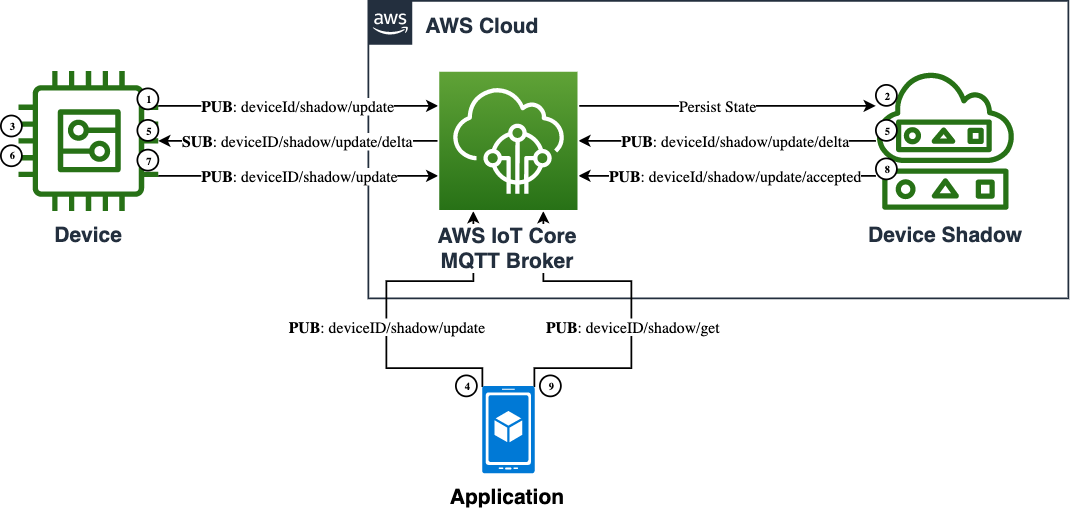
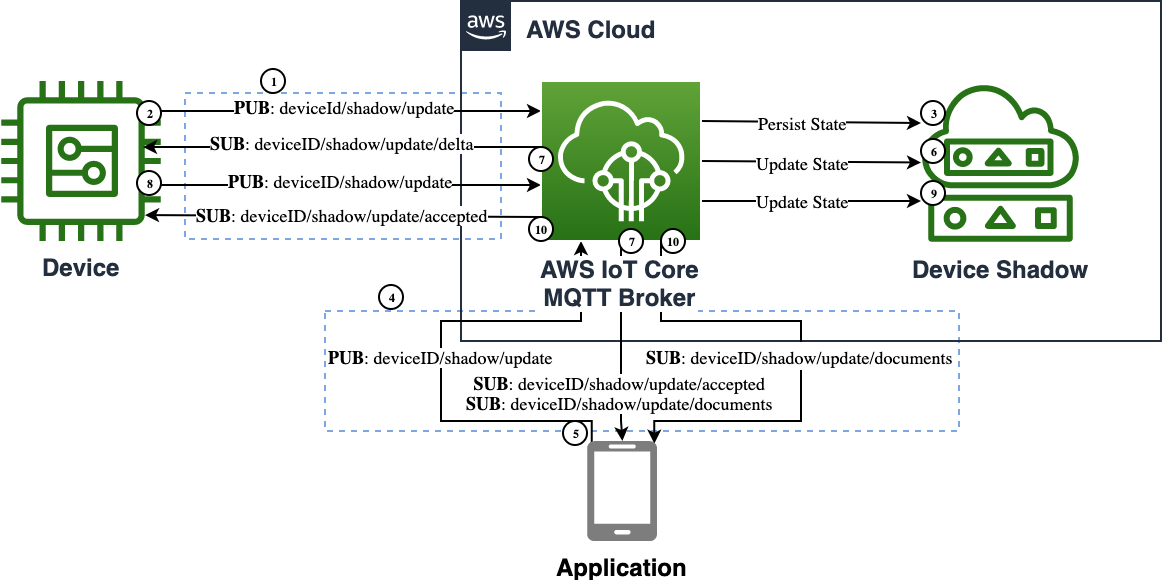
Update diagrams for accuracy, update application code to look at documents topic, and add consideration for using APIs w/ application.

diff --git a/src/hugo/content/en-us/implementations/aws/device_state_replica/device_state_replica1/_index.md b/src/hugo/content/en-us/implementations/aws/device_state_replica/device_state_replica1/_index.md
@@ -28,15 +28,16 @@ _Device Shadow_ is a service of AWS IoT Core. Shadows can make a device's state 
 - _Device Shadow_ is the IoT service that de-conflicts, stores, and processes state
 - _Application_ is the remote logic that updates the desired state
 
-1. The _Device_ establishes an MQTT connection to the _AWS IoT Core_ endpoint, and then publishes its initial state to the `deviceID/shadow/update` (update) topic. This is the topic where current and desired state updates are received.
-1. The _Device Shadow_ writes the device state to a persisten store.
-1. The _Device_ subscribes to the `deviceId/shadow/update/delta` (update delta) topic. This is the topic where device state change messages will arrive.
-1. The _Application_ establishes an MQTT connection to the _AWS IoT Core_ endpoint, and then publishes the desired state to the `deviceID/shadow/update` (update) topic.
-1. The _Device Shadow_ publishes the delta state message to the `deviceId/shadow/update/delta` (update delta) topic, and the Message Broker sends the message to the device.
-1. The _Device_ receives the delta message and performs the desired state changes.
-1. The _Device_ publishes to the `deviceId/shadow/update` (update) topic an acknowledgment message reflecting the new state.
-1. The _Device Shadow_ publishes an acknowledgment message to the `deviceId/shadow/update/accepted` (update accepted) topic.
-1. The _Application_ can now request the updated state from the _Device Shadow_.
+1. The _Device_ establishes an MQTT connection to the _AWS IoT Core_ endpoint, and then subscribes to the `deviceId/shadow/update/delta`, `deviceId/shadow/update/accepted`, and `deviceId/shadow/update/rejected` topics to receive shadow state change updates.
+1. The _Device_ publishes its initial state to the `deviceID/shadow/update` topic. This is the topic where current and desired state updates are received.
+1. The _AWS IoT Core_ broker writes the device state to the _Device Shadow_ persistent store.
+1. The _Application_ establishes an MQTT connection to the _AWS IoT Core_ endpoint, and then subscribes to the `deviceId/shadow/update/documents`, `deviceId/shadow/update/accepted`, and `deviceId/shadow/update/rejected` topics to receive shadow state change updates.
+1. The _Application_ publishes the desired state to the `deviceID/shadow/update` topic.
+1. The _AWS IoT Core_ broker  updates the _Device Shadow_ persistent state.
+1. The _AWS IoT Core_ broker publishes an acknowledgment message to the `deviceId/shadow/update/accepted` topic, delta state message to the `deviceId/shadow/update/delta` topic, and document message to the `deviceId/shadow/update/documents` topic.
+1. The _Device_ receives the delta message, performs the desired state changes, and publishes to the `deviceId/shadow/update` topic an acknowledgment message reflecting the new state.
+1. The _AWS IoT Core_ broker  updates the _Device Shadow_ persistent state.
+1. The _AWS IoT Core_ broker publishes an acknowledgment message to the `deviceId/shadow/update/accepted` topic and document message to the `deviceId/shadow/update/documents` topic.
 {{% center %}}
 
 ```plantuml
@@ -61,36 +62,38 @@ participant "<$Client>\nApplication" as app
 
 == Device Shadow Connection ==
 device -> broker : connect(iot_endpoint)
-device -> broker : subscribe("deviceID/shadow/update")
-device -> broker : publish("deviceID/shadow/update", state:{reported:{lights:on,doors:locked}})
-broker -> shadow : publish("deviceID/shadow/update", state:{reported:{lights:on,doors:locked}})
-shadow -> shadow : persist({lights:on,doors:locked})
+device -> broker : subscribe("deviceID/shadow/update/accepted")
+device -> broker : subscribe("deviceID/shadow/update/rejected")
 device -> broker : subscribe("deviceID/shadow/update/delta")
+device -> broker : publish("deviceID/shadow/update", state:{reported:{lights:on,doors:locked}})
+broker -> shadow : update_shadow(state:{reported:{lights:on,doors:locked}})
+rnote over shadow #FFFFFF: reported:{lights:on,doors:locked}
 app -> broker : connect(iot_endpoint)
-app -> broker : subscribe("deviceID/shadow/update")
+app -> broker : subscribe("deviceID/shadow/update/accepted")
+app -> broker : subscribe("deviceID/shadow/update/rejected")
+app -> broker : subscribe("deviceID/shadow/update/documents")
 
 == App to Device Updates ==
-app -> broker : publish("deviceID/shadow/update", state:{desired:{{lights:off}})
-broker -> shadow : publish("deviceID/shadow/update", state:{desired:{{lights:off}})
-shadow -> shadow : persist({lights:off})
-shadow -> broker : publish("deviceID/shadow/update/accepted", state:{desired:{{lights:off}})
-broker -> app : publish("deviceID/shadow/update/accepted", state:{desired:{{lights:off}})
-shadow -> broker : publish("deviceID/shadow/update/delta", state:{lights:off})
+app -> broker : publish("deviceID/shadow/update", state:{desired:{lights:off}})
+broker -> shadow : update_shadow(state:{desired:{lights:off}})
+rnote over shadow #FFFFFF: desired:{lights:off}, reported:{lights:on,doors:locked}
+broker -> app : publish("deviceID/shadow/update/accepted", state:{desired:{lights:off}})
+broker -> app : publish("deviceID/shadow/update/documents", state:{desired:{lights:off}, reported:{lights:on,doors:locked}})
 broker -> device : publish("deviceID/shadow/update/delta", state:{lights:off})
 device -> device : Turn off lights
 device -> broker : publish("deviceID/shadow/update", state:{reported:{lights:off,doors:locked}})
-broker -> shadow : publish("deviceID/shadow/update", state:{reported:{lights:off,doors:locked}})
-shadow -> shadow : persist({lights:off,doors:locked})
-shadow -> broker : publish("deviceID/shadow/update/accepted", state:{reported:{lights:off,doors:locked}})
+broker -> shadow : update_shadow(state:{reported:{lights:off,doors:locked}})
+rnote over shadow #FFFFFF: desired:{lights:off}, reported:{lights:off,doors:locked}
 broker -> device : publish("deviceID/shadow/update/accepted", state:{reported:{lights:off,doors:locked}})
+broker -> app : publish("deviceID/shadow/update/documents", state:{desired:{lights:off}, reported:{lights:off,doors:locked}})
 
 == Device to App Updates ==
+device -> device : Turn on lights
 device -> broker : publish("deviceID/shadow/update", state:{desired:{lights:on},reported:{lights:on}})
-broker -> shadow : publish("deviceID/shadow/update", state:{desired:{lights:on},reported:{lights:on}})
-shadow -> shadow : persist({lights:on})
-shadow -> broker : publish("deviceID/shadow/update/accepted", state:{desired:{lights:on},reported:{lights:on}})
+broker -> shadow : update_shadow(state:{desired:{lights:on},reported:{lights:on}})
+rnote over shadow #FFFFFF: desired:{lights:on}, reported:{lights:on,doors:locked}
 broker -> device : publish("deviceID/shadow/update/accepted", state:{desired:{lights:on},reported:{lights:on}})
-broker -> app : publish("deviceID/shadow/update/accepted", state:{desired:{lights:on},reported:{lights:on}})
+broker -> app : publish("deviceID/shadow/update/documents", state:{desired:{lights:on}, reported:{lights:on,doors:locked}})
 @enduml
 ```
 
@@ -340,8 +343,8 @@ def change_shadow_value(value, update_desired=True):
             request = iotshadow.UpdateShadowRequest(
                 thing_name=thing_name,
                 state=iotshadow.ShadowState(
-                    reported=locked_data.shadow_value,
-                    desired=locked_data.shadow_value
+                    reported=value,
+                    desired=value
                 ),
                 client_token=token,
             )
@@ -349,7 +352,7 @@ def change_shadow_value(value, update_desired=True):
             request = iotshadow.UpdateShadowRequest(
                 thing_name=thing_name,
                 state=iotshadow.ShadowState(
-                    reported=locked_data.shadow_value
+                    reported=value
                 ),
                 client_token=token,
             )
@@ -646,13 +649,12 @@ def on_update_shadow_accepted(response):
             try:
                 locked_data.request_tokens.remove(response.client_token)
             except KeyError:
-                print("Ignoring update_shadow_accepted message due to unexpected token. Requesting shadow.")
-                request_shadow_value()
+                print("Ignoring update_shadow_accepted message due to unexpected token.")
+                print("""Enter desired value ex:{"light":"off"}: """) 
                 return
 
         try:
             print("Finished updating desired shadow value to '{}'.".format(response.state.desired))
-            print("""Enter desired value ex:{"light":"off"}: """) 
         except:
             exit("Updated shadow is missing the target property.")
 
@@ -672,6 +674,16 @@ def on_update_shadow_rejected(error):
 
         exit("Update request was rejected. code:{} message:'{}'".format(
             error.code, error.message))
+
+    except Exception as e:
+        exit(e)
+        
+# Callback for if the shadow updated
+def on_update_shadow_documents(response):
+    try:
+        print("Received shadow document update")
+        set_local_shadow_value(response.current.state.reported)
+        return
 
     except Exception as e:
         exit(e)
@@ -803,6 +815,11 @@ if __name__ == '__main__':
             request=iotshadow.UpdateShadowSubscriptionRequest(thing_name=thing_name),
             qos=mqtt.QoS.AT_LEAST_ONCE,
             callback=on_update_shadow_rejected)
+            
+        update_rejected_subscribed_future, _ = shadow_client.subscribe_to_shadow_updated_events(
+            request=iotshadow.UpdateShadowSubscriptionRequest(thing_name=thing_name),
+            qos=mqtt.QoS.AT_LEAST_ONCE,
+            callback=on_update_shadow_documents)
 
         # Wait for subscriptions to succeed
         update_accepted_subscribed_future.result()
@@ -866,4 +883,10 @@ There is no guarantee that messages from the AWS IoT service are received in ord
 
 Many IoT devices have limited bandwidth available to them which requires communication to be optimized. One way to mitigate the issue is to trim down MQTT messages and publish them to another topic for consumption by the device. For example, a rule can be setup to take messages from the shadow/update topic, trim them, and publish to shadow/trimmed/update topic for the device to subscribe to. See [Rules for AWS IoT](https://docs.aws.amazon.com/iot/latest/developerguide/iot-rules.html) for more detail.
 
-Another consideration with size is AWS IoT Device Shadow size limit of 8KB. This size limit applies to the overall message document, which includes both the desired and actual state. So, if there enough changes to the desired state and can effectivel reduce the supported shadow size down to 4KB.
+Another consideration with size is AWS IoT Device Shadow size limit of 8KB. This size limit applies to the overall message document, which includes both the desired and actual state. So, if there enough changes to the desired state and can effectively reduce the supported shadow size down to 4KB.
+
+### Application Integration
+
+This example demonstrated how a device and application can interact with the AWS IoT Device Shadow service. However, the service also supports a REST API which may integrate better with certain applications. For example, a mobile application that already interacts with other REST APIs would be a good candidate for using the Device Shadow REST API. See [Device Shadow REST API](https://docs.aws.amazon.com/iot/latest/developerguide/device-shadow-rest-api.html) for more detail.
+
+Also consider how Rules for AWS IoT could be leveraged for your application. For example, you could leverage rules to push a notification to an application or run some custom logic before delivering the data to the mobile application. Using rules can make integrating with your application easier or bring additional features to your users. See [Rules for AWS IoT](https://docs.aws.amazon.com/iot/latest/developerguide/iot-rules.html) for more detail.
